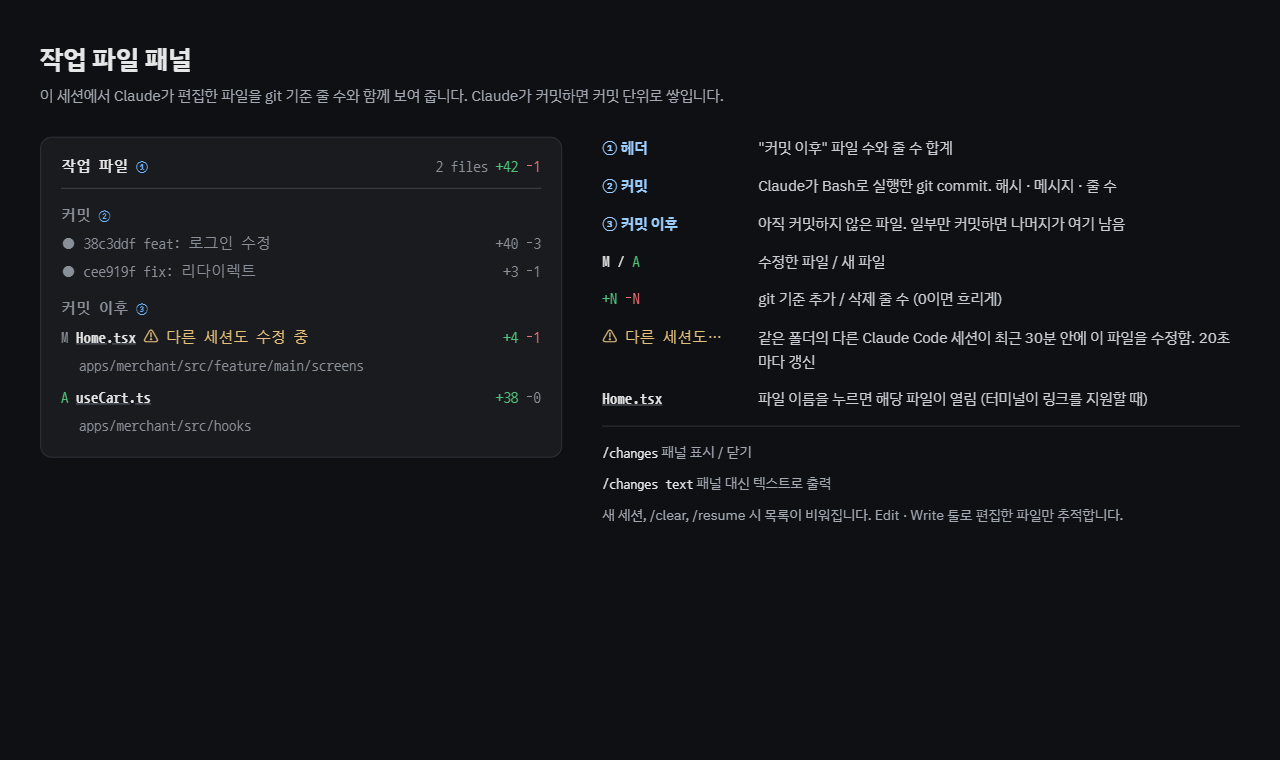
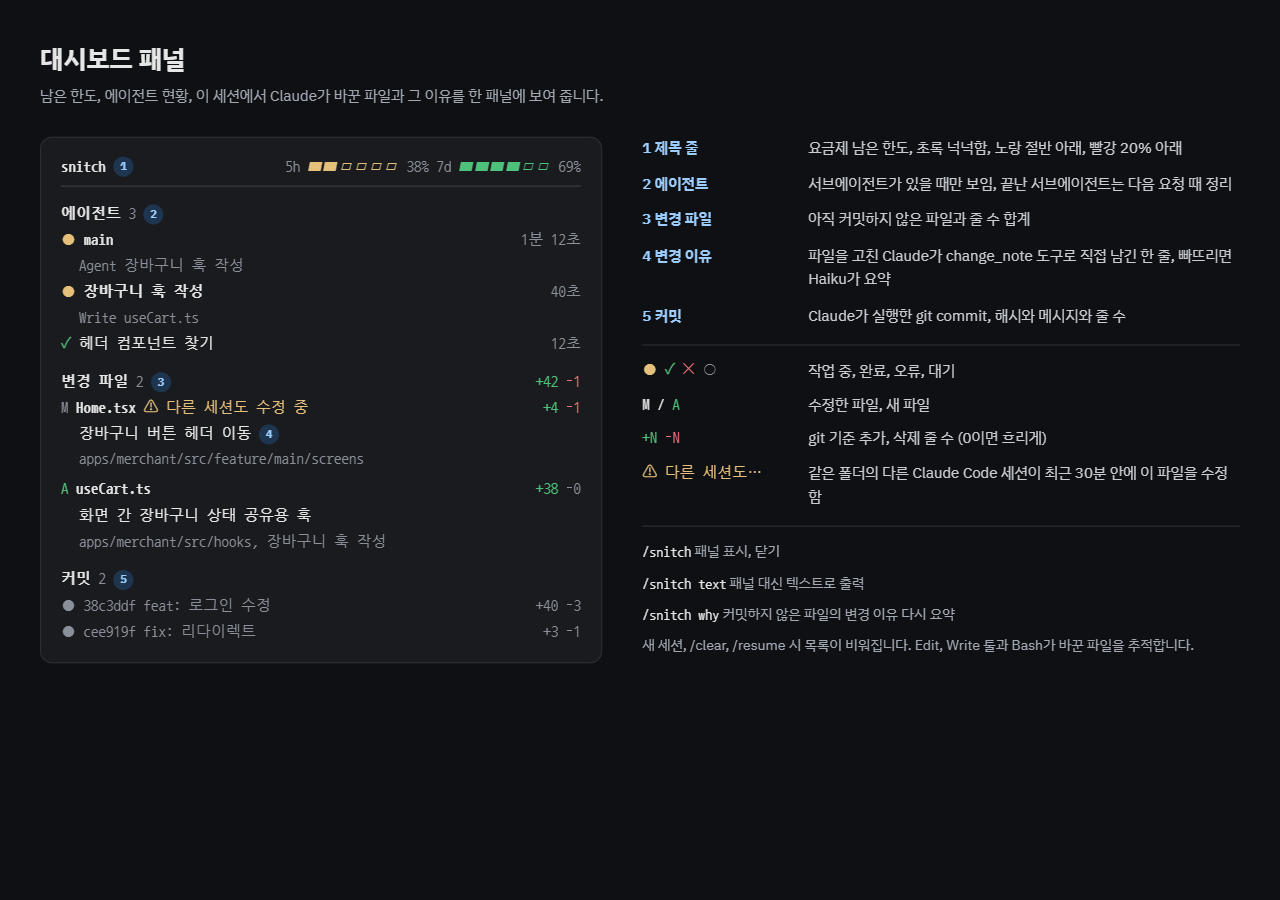
Refresh README images for 0.0.2
- Redraw the hero, status line, dashboard and layout images
- Add images for subagents at work, change reasons and agent states

diff --git a/README.md b/README.md
@@ -1,8 +1,10 @@
 # snitch
 
-Claude가 한 일을 전부 일러바치는 Claude Code mod입니다. 무슨 파일을 고쳤는지, 커밋은 했는지, 다른 세션이 같은 파일을 건드리는지 옆에서 계속 알려 줍니다.
+Claude가 한 일을 전부 일러바치는 Claude Code mod입니다. 무슨 파일을 왜 고쳤는지, 서브에이전트가 무엇을 하고 있는지, 커밋은 했는지, 다른 세션이 같은 파일을 건드리는지 옆에서 계속 알려 줍니다.
 
 ![snitch 적용 화면](docs/images/screen.png)
+
+![서브에이전트가 도는 중의 snitch](docs/images/screen-agents.png)
 
 - **요구 사항**: Claude Code v2.1.287 이상 (CLI, 데스크톱 앱 Code 탭)
 - **지원 OS**: macOS, Linux, Windows
@@ -91,6 +93,8 @@ A useCart.ts                                +38 −0
 
 **에이전트**
 
+![에이전트 현황](docs/images/agents.png)
+
 - 에이전트 구역은 서브에이전트가 있을 때만 보입니다.
 - `main`은 메인 대화이며, Claude가 응답하는 동안 작업 중, 응답이 끝나면 대기로 표시됩니다.
 - 서브에이전트는 시작하면 작업 중, 끝나면 완료(실패, 중단은 오류)로 바뀝니다. 끝난 서브에이전트는 다음 요청을 입력할 때 목록에서 빠집니다.
@@ -98,6 +102,8 @@ A useCart.ts                                +38 −0
 - 데이터는 현재 세션의 이벤트(서브에이전트 시작, 툴 호출, 턴 종료)에서만 가져옵니다. 다른 세션의 에이전트는 표시하지 않습니다.
 
 **변경 이유**
+
+![변경 이유](docs/images/reasons.png)
 
 변경 이유는 **코드를 고친 Claude가 직접** 남깁니다. snitch가 `change_note` 도구를 등록하고, Claude는 파일을 고친 응답을 마치기 전에 이 도구로 파일마다 "무엇을"이 아니라 "왜"를 30자 안팎의 명사구로 적습니다 (예: `화면 간 장바구니 상태 공유용 훅`). 서브에이전트가 고친 파일은 그 서브에이전트가 남깁니다.
 
